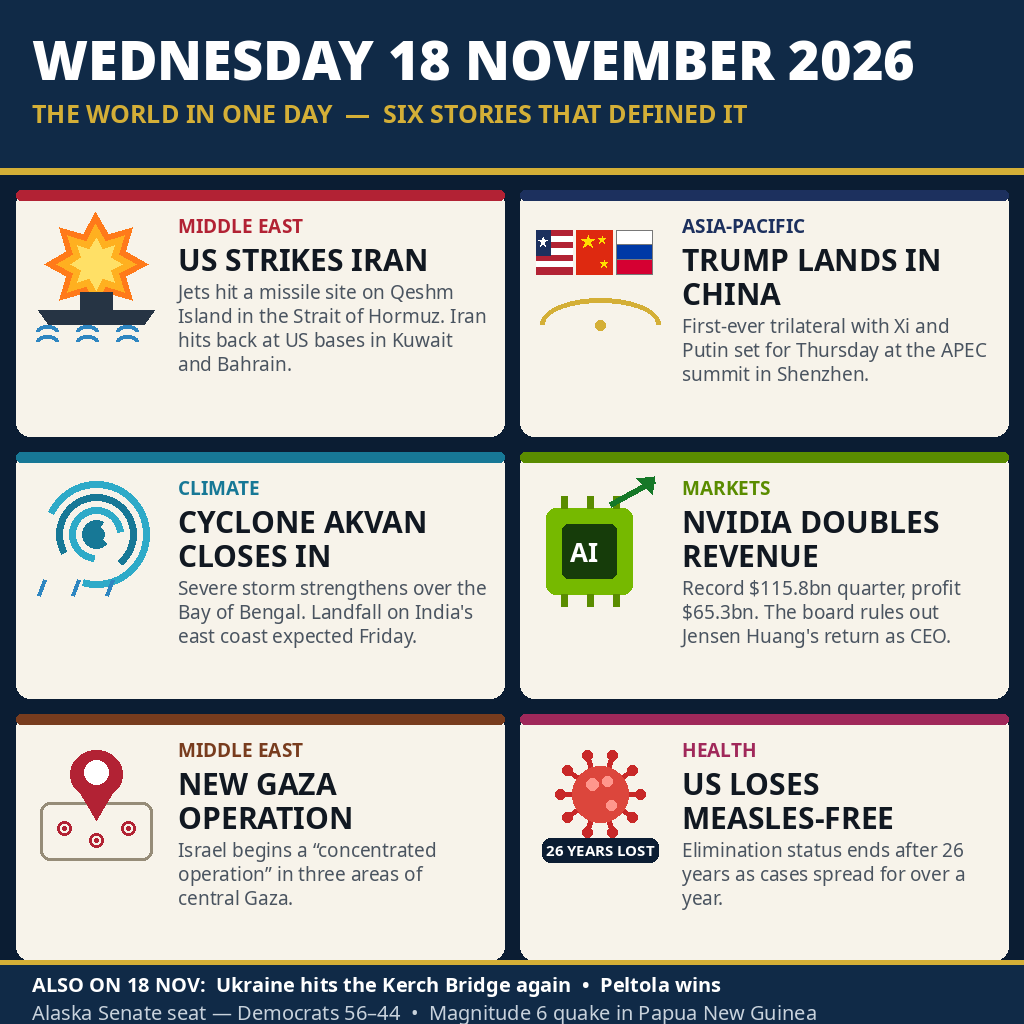
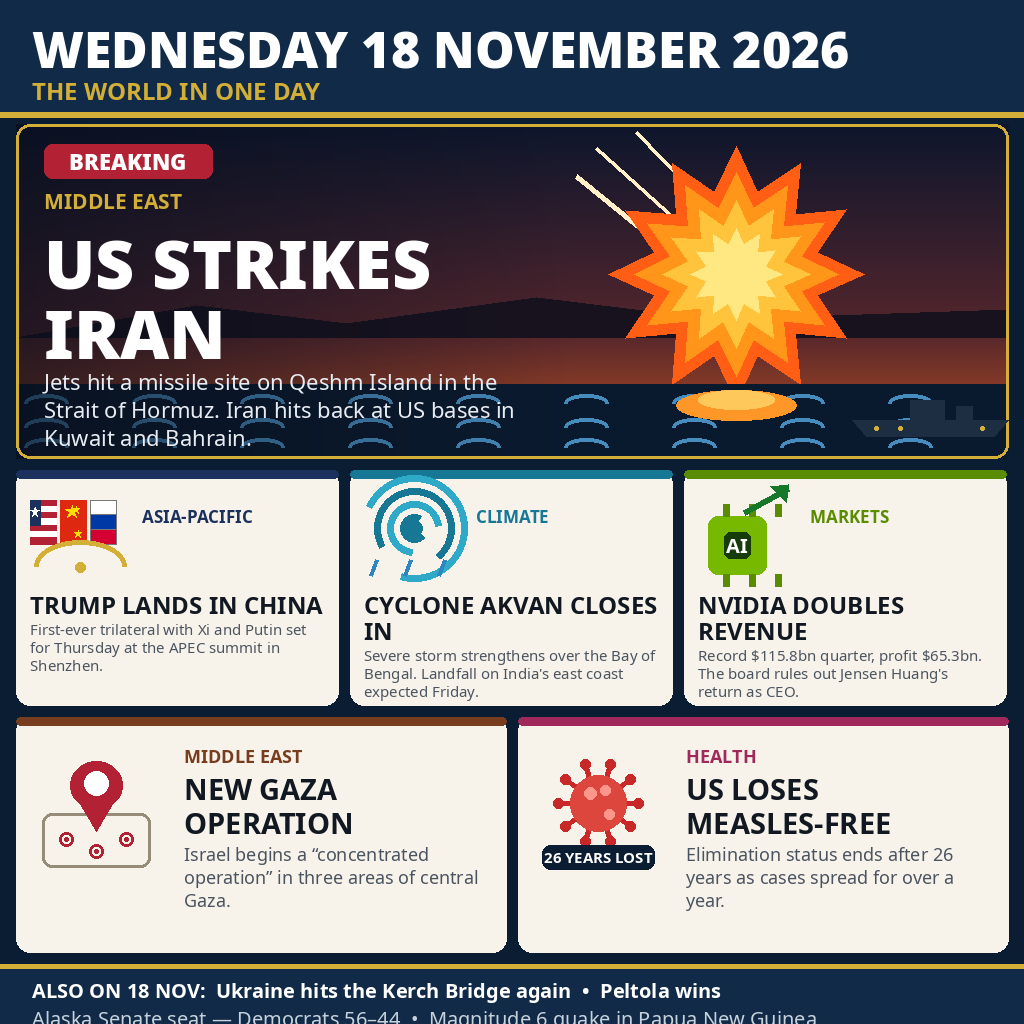
Hero-led redesign: Hormuz strikes lead as full-bleed illustrated panel
Flat 2x3 grid lost pairwise duels to dramatic single images, so the
day's biggest story (US strikes Iran) now leads as a 334px hero panel:
code-drawn dusk scene with explosion burst, missile streaks, sea and
tanker, BREAKING badge and 68pt headline. The other five stories drop
to three compact cards + two wide cards with bolder type and more air.
All six stories, decks and the footer ticker are verbatim from the
verified original; no fact changed, added or dropped. Deterministic
reruns (byte-identical), entry.png 135,615 bytes.

diff --git a/draw.py b/draw.py
@@ -1,14 +1,17 @@
 #!/usr/bin/env python3
 """Draw the 18 November 2026 world-news summary image (1024x1024 PNG).
 
-One image, six stories, drawn programmatically with Pillow from the news
-reported on Wednesday 18 November 2026. No photos, no scraped art: every
-shape is code. Run: python3 draw.py  -> writes entry.png beside this file.
+HERO-LED redesign of the flat 2x3 grid: one big hero panel for the day's
+biggest story (US strikes Iran) with a large code-drawn illustration, the
+other five stories smaller below, bolder headline type, more air. Every
+fact is unchanged from the verified original — same six stories, same
+sources, same footer ticker. No photos, no scraped art: every shape is
+code. Run: python3 draw.py  -> writes entry.png beside this file.
 
 Stories (all first reported / happened 18 Nov 2026, cross-checked against
 multiple news outlets the same day):
- 1. US jets strike an Iranian missile site on Qeshm Island, Strait of Hormuz;
-    Iran hits back at US bases in Kuwait and Bahrain.
+ 1. HERO — US jets strike an Iranian missile site on Qeshm Island, Strait
+    of Hormuz; Iran hits back at US bases in Kuwait and Bahrain.
  2. Trump lands in Shenzhen, China, for the first-ever trilateral with Xi
     Jinping and Vladimir Putin at the APEC summit (Thu 19 Nov).
  3. Cyclone Akvan strengthens to a severe cyclonic storm over the Bay of
@@ -148,8 +151,9 @@ def icon_nvidia(d, x, y, s):
         d.rectangle([px - 3, chip[3], px + 3, chip[3] + 12], fill=(90, 140, 0))
     d.rounded_rectangle([chip[0] + 16, chip[1] + 16, chip[2] - 16, chip[3] - 16],
                         radius=6, fill=(22, 60, 10))
-    d.text((chip[0] + 24, chip[1] + 26), "AI", font=font(FONT_BOLD, 26),
-           fill=WHITE)
+    ai_size = max(14, int(26 * s / 132))
+    d.text(((chip[0] + chip[2]) // 2, (chip[1] + chip[3]) // 2), "AI",
+           font=font(FONT_BOLD, ai_size), fill=WHITE, anchor="mm")
     # rising arrow: diagonal shaft + arrowhead at the top right
     d.line([(x + s - 56, y + 30), (x + s - 12, y + 6)],
            fill=(22, 120, 40), width=6)
@@ -194,12 +198,62 @@ def icon_measles(d, x, y, s):
            font=font(FONT_BOLD, 15), fill=WHITE, anchor="mm")
 
 
-# ---------------------------------------------------------------- layout
-STORIES = [
-    ("MIDDLE EAST", (178, 34, 52), "US STRIKES IRAN",
-     "Jets hit a missile site on Qeshm Island in the Strait of Hormuz. "
-     "Iran hits back at US bases in Kuwait and Bahrain.",
-     icon_hormuz),
+# ---------------------------------------------------------------- hero art
+def hero_art(d, x0, y0, x1, y1):
+    """Full-bleed Hormuz scene: dusk sky, island ridge, giant explosion
+    burst, missile streaks, sea and a tanker silhouette."""
+    # dusk sky: dark navy top -> burnt orange horizon (banded gradient)
+    top = (13, 22, 44)
+    mid = (84, 38, 44)
+    bot = (198, 84, 32)
+    horizon = y0 + int((y1 - y0) * 0.62)
+    for yy in range(y0, horizon):
+        t = (yy - y0) / max(1, horizon - y0)
+        c = tuple(int(top[i] + (mid[i] - top[i]) * t) for i in range(3))
+        d.line([(x0, yy), (x1, yy)], fill=c)
+    for yy in range(horizon, y1):
+        t = (yy - horizon) / max(1, y1 - horizon)
+        c = tuple(int(mid[i] + (bot[i] - mid[i]) * t) for i in range(3))
+        d.line([(x0, yy), (x1, yy)], fill=c)
+    # island ridge (Qeshm) along the horizon
+    ridge = [(x0, horizon + 6), (x0 + 180, horizon - 26),
+             (x0 + 330, horizon - 8), (x0 + 520, horizon - 34),
+             (x0 + 700, horizon - 12), (x1, horizon - 22),
+             (x1, horizon + 6)]
+    d.polygon(ridge, fill=(24, 18, 30))
+    # missile streaks arcing into the burst (kept right of the text zone)
+    for (sx, sy, ex, ey) in ((x0 + 580, y0 + 24, x0 + 700, y0 + 132),
+                             (x0 + 620, y0 + 8, x0 + 726, y0 + 118),
+                             (x0 + 560, y0 + 52, x0 + 688, y0 + 156)):
+        d.line([(sx, sy), (ex, ey)], fill=(255, 240, 200), width=5)
+        d.ellipse([ex - 7, ey - 7, ex + 7, ey + 7], fill=(255, 240, 200))
+    # giant explosion burst, right of centre
+    cx, cy = x0 + 720, y0 + 150
+    for r, c in ((128, (255, 94, 20)), (102, (255, 150, 26)),
+                 (74, (255, 196, 60)), (46, (255, 232, 130))):
+        pts = []
+        for i in range(24):
+            ang = i * math.pi / 12
+            rr = r if i % 2 == 0 else r * 0.66
+            pts.append((cx + rr * math.cos(ang), cy + rr * math.sin(ang)))
+        d.polygon(pts, fill=c)
+    # (no smoke: solid circles read as holes against the dark sky)
+    # sea: dark band + wave arcs
+    sea_y = y1 - 74
+    d.rectangle([x0, sea_y, x1, y1], fill=(10, 26, 46))
+    for wy in (sea_y + 18, sea_y + 42, sea_y + 62):
+        for k in range(9):
+            wx = x0 + 8 + k * 108
+            d.arc([wx, wy - 8, wx + 44, wy + 10], 180, 360,
+                  fill=(70, 140, 190), width=4)
+    # fire glow reflected on the water under the burst
+    for r, c in ((60, (255, 150, 40)), (38, (255, 200, 90))):
+        d.ellipse([cx - r, sea_y + 6, cx + r, sea_y + 6 + r // 2], fill=c)
+
+
+# ---------------------------------------------------------------- stories
+# (tag, colour, headline, deck, icon) — facts verbatim from the original.
+ROW1 = [
     ("ASIA-PACIFIC", (28, 48, 94), "TRUMP LANDS IN CHINA",
      "First-ever trilateral with Xi and Putin set for Thursday at the "
      "APEC summit in Shenzhen.",
@@ -212,6 +266,8 @@ STORIES = [
      "Record $115.8bn quarter, profit $65.3bn. The board rules out "
      "Jensen Huang's return as CEO.",
      icon_nvidia),
+]
+ROW2 = [
     ("MIDDLE EAST", (120, 60, 30), "NEW GAZA OPERATION",
      "Israel begins a \u201cconcentrated operation\u201d in three areas "
      "of central Gaza.",
@@ -223,52 +279,124 @@ STORIES = [
 ]
 
 
+def small_card(d, x, y, w, h, tag, color, head, sub, icon):
+    """Compact card: icon top-left, kicker beside it, headline, deck."""
+    d.rounded_rectangle([x, y, x + w, y + h], radius=14, fill=PAPER)
+    d.rounded_rectangle([x, y, x + w, y + 8], radius=4, fill=color)
+    icon(d, x + 12, y + 12, 104)
+    d.text((x + 126, y + 34), tag, font=font(FONT_BOLD, 17), fill=color)
+    lines = wrap(d, head, font(FONT_BOLD, 24), w - 28)
+    sub_lines = wrap(d, sub, font(FONT_REG, 15), w - 28)
+    assert len(lines) <= 2 and len(sub_lines) <= 3, (head, lines, sub_lines)
+    ly = y + 118
+    for ln in lines[:2]:
+        d.text((x + 14, ly), ln, font=font(FONT_BOLD, 24), fill=INK)
+        ly += 26
+    ly += 4
+    for ln in sub_lines[:3]:
+        d.text((x + 14, ly), ln, font=font(FONT_REG, 15), fill=MUTED)
+        ly += 18
+    assert ly <= y + h + 2, (head, ly, y + h)
+
+
+def wide_card(d, x, y, w, h, tag, color, head, sub, icon):
+    """Wide card: icon left, text right."""
+    d.rounded_rectangle([x, y, x + w, y + h], radius=14, fill=PAPER)
+    d.rounded_rectangle([x, y, x + w, y + 8], radius=4, fill=color)
+    icon(d, x + 16, y + 30, 128)
+    tx = x + 168
+    d.text((tx, y + 26), tag, font=font(FONT_BOLD, 18), fill=color)
+    lines = wrap(d, head, font(FONT_BOLD, 29), w - 184)
+    ly = y + 52
+    for ln in lines[:2]:
+        d.text((tx, ly), ln, font=font(FONT_BOLD, 29), fill=INK)
+        ly += 34
+    sub_lines = wrap(d, sub, font(FONT_REG, 18), w - 184)
+    ly += 4
+    for ln in sub_lines[:3]:
+        d.text((tx, ly), ln, font=font(FONT_REG, 18), fill=MUTED)
+        ly += 23
+    assert ly <= y + h + 2, (head, ly, y + h)
+
+
 def main():
     img = Image.new("RGB", (W, H), NAVY)
     d = ImageDraw.Draw(img)
 
-    # ---- header
-    d.rectangle([0, 0, W, 168], fill=NAVY2)
-    d.rectangle([0, 168, W, 174], fill=GOLD)
-    d.text((32, 22), "WEDNESDAY 18 NOVEMBER 2026",
-           font=font(FONT_BLACK, 54), fill=WHITE)
-    d.text((32, 96), "THE WORLD IN ONE DAY  \u2014  SIX STORIES THAT DEFINED IT",
-           font=font(FONT_BOLD, 25), fill=GOLD)
+    # ---- header (0..112)
+    d.rectangle([0, 0, W, 112], fill=NAVY2)
+    d.rectangle([0, 112, W, 117], fill=GOLD)
+    d.text((32, 14), "WEDNESDAY 18 NOVEMBER 2026",
+           font=font(FONT_BLACK, 50), fill=WHITE)
+    d.text((32, 74), "THE WORLD IN ONE DAY",
+           font=font(FONT_BOLD, 24), fill=GOLD)
 
-    # ---- story grid: 2 cols x 3 rows
-    gx, gy = 16, 190
-    pw, ph, gap = 488, 246, 16
-    for i, (tag, color, head, sub, icon) in enumerate(STORIES):
-        x = gx + (i % 2) * (pw + gap)
-        y = gy + (i // 2) * (ph + gap)
-        d.rounded_rectangle([x, y, x + pw, y + ph], radius=14, fill=PAPER)
-        d.rounded_rectangle([x, y, x + pw, y + 10], radius=5, fill=color)
-        # icon zone
-        icon(d, x + 14, y + 22, 132)
-        # tag
-        tx = x + 162
-        d.text((tx, y + 22), tag, font=font(FONT_BOLD, 19), fill=color)
-        # headline
-        lines = wrap(d, head, font(FONT_BOLD, 30), pw - 178)
-        ly = y + 48
-        for ln in lines[:2]:
-            d.text((tx, ly), ln, font=font(FONT_BOLD, 30), fill=INK)
-            ly += 34
-        # subline
-        sub_lines = wrap(d, sub, font(FONT_REG, 19), pw - 178)
-        ly += 6
-        for ln in sub_lines[:4]:
-            d.text((tx, ly), ln, font=font(FONT_REG, 19), fill=MUTED)
-            ly += 24
+    # ---- hero panel (124..458): full-bleed Hormuz scene + big type
+    hx0, hy0, hx1, hy1 = 16, 124, 1008, 458
+    hero_art(d, hx0, hy0, hx1, hy1)
+    # dark scrim on the left so the headline reads over the sky —
+    # gradient, fading out to the right so there is no hard seam
+    scrim = Image.new("RGBA", (W, H), (0, 0, 0, 0))
+    sd = ImageDraw.Draw(scrim)
+    for bx in range(hx0, hx0 + 560, 4):
+        a = int(165 * (1 - (bx - hx0) / 560))
+        sd.rectangle([bx, hy0, bx + 4, hy1], fill=(8, 14, 28, a))
+    img.paste(Image.alpha_composite(img.convert("RGBA"), scrim).convert("RGB"),
+              (0, 0))
+    d = ImageDraw.Draw(img)
+    d.rounded_rectangle([hx0, hy0, hx1, hy1], radius=14,
+                        outline=GOLD, width=3)
+    # tanker silhouette on the sea, right of the fire glow, drawn after
+    # the scrim so it stays visible
+    sea_y = hy1 - 74
+    tx, ty = hx0 + 836, sea_y + 10
+    d.polygon([(tx, ty + 26), (tx + 156, ty + 26), (tx + 142, ty + 42),
+               (tx + 14, ty + 42)], fill=(30, 46, 66))
+    d.rectangle([tx + 58, ty + 6, tx + 92, ty + 26], fill=(30, 46, 66))
+    d.rectangle([tx + 104, ty + 12, tx + 120, ty + 26], fill=(30, 46, 66))
+    for px in (tx + 24, tx + 48, tx + 130):
+        d.ellipse([px - 2, ty + 32, px + 2, ty + 36], fill=GOLD)
+    # hero text
+    tx = hx0 + 28
+    d.rounded_rectangle([tx, hy0 + 20, tx + 168, hy0 + 54], radius=8,
+                        fill=(178, 34, 52))
+    d.text((tx + 84, hy0 + 37), "BREAKING", font=font(FONT_BLACK, 22),
+           fill=WHITE, anchor="mm")
+    d.text((tx, hy0 + 62), "MIDDLE EAST", font=font(FONT_BOLD, 21),
+           fill=GOLD)
+    d.text((tx, hy0 + 92), "US STRIKES", font=font(FONT_BLACK, 68),
+           fill=WHITE)
+    d.text((tx, hy0 + 162), "IRAN", font=font(FONT_BLACK, 68), fill=WHITE)
+    deck = wrap(d, "Jets hit a missile site on Qeshm Island in the "
+                "Strait of Hormuz. Iran hits back at US bases in "
+                "Kuwait and Bahrain.", font(FONT_REG, 22), 500)
+    assert len(deck) <= 3, deck
+    ly = hy0 + 242
+    for ln in deck[:3]:
+        d.text((tx, ly), ln, font=font(FONT_REG, 22), fill=(232, 236, 242))
+        ly += 28
+    assert ly <= hy1 - 8, deck
 
-    # ---- footer ticker (panels end at y=960; footer is 960..1024)
-    fy = 190 + 3 * ph + 2 * gap  # 960
+    # ---- row 1: three compact cards (470..705)
+    cw3 = (992 - 2 * 12) // 3  # 322
+    for i, (tag, color, head, sub, icon) in enumerate(ROW1):
+        small_card(d, 16 + i * (cw3 + 12), 470, cw3, 235,
+                   tag, color, head, sub, icon)
+
+    # ---- row 2: two wide cards (717..952)
+    cw2 = (992 - 12) // 2  # 490
+    for i, (tag, color, head, sub, icon) in enumerate(ROW2):
+        wide_card(d, 16 + i * (cw2 + 12), 717, cw2, 235,
+                  tag, color, head, sub, icon)
+
+    # ---- footer ticker (964..1024)
+    fy = 964
     d.rectangle([0, fy, W, H], fill=NAVY2)
     d.rectangle([0, fy, W, fy + 4], fill=GOLD)
-    d.text((32, fy + 10),
+    d.text((32, fy + 12),
            "ALSO ON 18 NOV:  Ukraine hits the Kerch Bridge again  \u2022  Peltola wins",
            font=font(FONT_BOLD, 20), fill=WHITE)
-    d.text((32, fy + 38),
+    d.text((32, fy + 40),
            "Alaska Senate seat \u2014 Democrats 56\u201344  \u2022  Magnitude 6 quake in Papua New Guinea",
            font=font(FONT_REG, 20), fill=(200, 210, 220))
 

diff --git a/README.md b/README.md
@@ -6,8 +6,10 @@ make.fun contest `news-image-20261118` — $250, Growth. One image summing up
 ## The image
 
 1024×1024 PNG, drawn programmatically by `draw.py` (Pillow + Noto Sans,
-flat vector icons, no photos, no scraped art). Header names the day;
-six panels cover the day's biggest stories across regions and beats:
+flat vector icons, no photos, no scraped art). Header names the day; a
+large hero panel leads with the day's biggest story (the Hormuz strikes,
+drawn as a full-bleed dusk scene with explosion, missile streaks, sea and
+tanker), and five smaller cards below cover the rest:
 
 1. **Middle East** — US jets strike an Iranian missile site on Qeshm Island
    in the Strait of Hormuz; Iran hits back at US bases in Kuwait and Bahrain.
